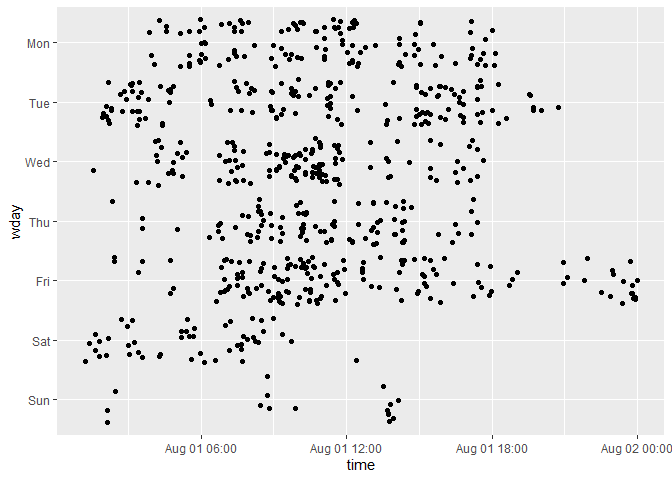
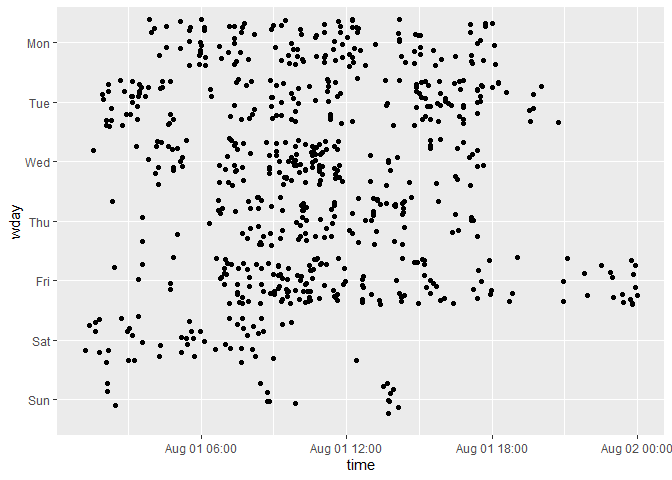
Publish html to rsconnect and md to gh.

diff --git a/README.md b/README.md
@@ -1,14 +1,21 @@
+---
+output:
+  html_document:
+    keep_md: yes
+---
 
 <!-- README.md is generated from README.Rmd. Please edit that file -->
 
+
+
 # My work on r2dii packages
 
-Adapted from <https://rpubs.com/hadley/gh>.
+Adapted from https://rpubs.com/hadley/gh.
 
-On July 1, 2019 I started working on an ecosystem of R packages named
-“r2dii”. Here I explore my work so far.
+On July 1, 2019 I started working on an ecosystem of R packages named "r2dii". Here I explore my work so far.
 
-``` r
+
+```r
 library(gh)
 library(purrr)
 library(tibble)
@@ -32,10 +39,10 @@ library(ggplot2)
 library(forcats)
 ```
 
-I start by getting a list of the 50 repos that I’ve touched most
-recently.
+I start by getting a list of the 50 repos that I’ve touched most recently.
 
-``` r
+
+```r
 my_repos <- function(type = c("all", "owner", "public", "private", "member"), 
                      limit = 50) {
   type <- match.arg(type)
@@ -53,10 +60,10 @@ length(repos)
 
 full_name <- repos %>% map_chr("full_name")
 head(full_name, 20)
-#>  [1] "maurolepore/r2dii.data"           
-#>  [2] "maurolepore/r2dii.dataprep"       
-#>  [3] "maurolepore/r2dii.dataraw"        
-#>  [4] "maurolepore/ghhrs"                
+#>  [1] "maurolepore/ghhrs"                
+#>  [2] "maurolepore/r2dii.data"           
+#>  [3] "maurolepore/r2dii.dataprep"       
+#>  [4] "maurolepore/r2dii.dataraw"        
 #>  [5] "maurolepore/junr"                 
 #>  [6] "maurolepore/DCC"                  
 #>  [7] "maurolepore/drake"                
@@ -75,15 +82,12 @@ head(full_name, 20)
 #> [20] "maurolepore/praise"
 ```
 
-(If you’re doing this yourself, you’ll need to make sure you’ve set up
-an environment variable GITHUB\_PAT with a GitHub personal access
-token.)
+(If you’re doing this yourself, you’ll need to make sure you’ve set up an environment variable GITHUB_PAT with a GitHub personal access token.)
 
-And then, for each repo, I get all the commits since 2019-07-01, around
-the time I became a full time software developer. I collaborate with
-other people, so I make sure to extract the author of the commit.
+And then, for each repo, I get all the commits since 2019-07-01, around the time I became a full time software developer. I collaborate with other people, so I make sure to extract the author of the commit.
 
-``` r
+
+```r
 repo_commits <- function(full_name, since = "2019-07-01") {
   message("Requesting commits for ", full_name)
   
@@ -105,10 +109,10 @@ repo_commits <- function(full_name, since = "2019-07-01") {
 }
 
 commits <- full_name %>% map(repo_commits) %>% compact() %>% bind_rows()
+#> Requesting commits for maurolepore/ghhrs
 #> Requesting commits for maurolepore/r2dii.data
 #> Requesting commits for maurolepore/r2dii.dataprep
 #> Requesting commits for maurolepore/r2dii.dataraw
-#> Requesting commits for maurolepore/ghhrs
 #> Requesting commits for maurolepore/junr
 #> Requesting commits for maurolepore/DCC
 #> Requesting commits for maurolepore/drake
@@ -156,27 +160,26 @@ commits <- full_name %>% map(repo_commits) %>% compact() %>% bind_rows()
 #> Requesting commits for maurolepore/dev_guide
 #> Requesting commits for maurolepore/ixplorer
 commits
-#> # A tibble: 1,225 x 3
+#> # A tibble: 1,227 x 3
 #>    full_name              author      datetime            
 #>    <chr>                  <chr>       <chr>               
-#>  1 maurolepore/r2dii.data maurolepore 2019-07-09T12:26:56Z
-#>  2 maurolepore/r2dii.data maurolepore 2019-07-09T09:43:11Z
-#>  3 maurolepore/r2dii.data maurolepore 2019-07-09T09:23:20Z
-#>  4 maurolepore/r2dii.data maurolepore 2019-07-09T09:18:51Z
-#>  5 maurolepore/r2dii.data maurolepore 2019-07-09T08:27:11Z
-#>  6 maurolepore/r2dii.data maurolepore 2019-07-09T08:27:23Z
-#>  7 maurolepore/r2dii.data maurolepore 2019-07-09T08:10:32Z
-#>  8 maurolepore/r2dii.data maurolepore 2019-07-09T08:26:37Z
-#>  9 maurolepore/r2dii.data maurolepore 2019-07-09T08:50:16Z
-#> 10 maurolepore/r2dii.data maurolepore 2019-07-09T08:23:20Z
-#> # ... with 1,215 more rows
+#>  1 maurolepore/ghhrs      maurolepore 2019-08-10T23:01:10Z
+#>  2 maurolepore/ghhrs      maurolepore 2019-08-10T21:59:43Z
+#>  3 maurolepore/ghhrs      maurolepore 2019-08-10T21:30:37Z
+#>  4 maurolepore/r2dii.data maurolepore 2019-07-09T12:26:56Z
+#>  5 maurolepore/r2dii.data maurolepore 2019-07-09T09:43:11Z
+#>  6 maurolepore/r2dii.data maurolepore 2019-07-09T09:23:20Z
+#>  7 maurolepore/r2dii.data maurolepore 2019-07-09T09:18:51Z
+#>  8 maurolepore/r2dii.data maurolepore 2019-07-09T08:27:11Z
+#>  9 maurolepore/r2dii.data maurolepore 2019-07-09T08:27:23Z
+#> 10 maurolepore/r2dii.data maurolepore 2019-07-09T08:10:32Z
+#> # ... with 1,217 more rows
 ```
 
-Next, I parse the commit date, and set my timezone. I break the datetime
-into separate date and time pieces as that will make plotting easier
-later on.
+Next, I parse the commit date, and set my timezone. I break the datetime into separate date and time pieces as that will make plotting easier later on.
 
-``` r
+
+```r
 commits <- commits %>% mutate(
   datetime = lubridate::with_tz(readr::parse_datetime(datetime), "America/Chicago"),
   date = floor_date(datetime, "day"),
@@ -185,26 +188,26 @@ commits <- commits %>% mutate(
 #> Warning in (function (object, years = integer(), months = integer(), days =
 #> integer(), : partial argument match of 'yday' to 'ydays'
 commits
-#> # A tibble: 1,225 x 5
+#> # A tibble: 1,227 x 5
 #>    full_name author datetime            date               
 #>    <chr>     <chr>  <dttm>              <dttm>             
-#>  1 maurolep~ mauro~ 2019-07-09 07:26:56 2019-07-09 00:00:00
-#>  2 maurolep~ mauro~ 2019-07-09 04:43:11 2019-07-09 00:00:00
-#>  3 maurolep~ mauro~ 2019-07-09 04:23:20 2019-07-09 00:00:00
-#>  4 maurolep~ mauro~ 2019-07-09 04:18:51 2019-07-09 00:00:00
-#>  5 maurolep~ mauro~ 2019-07-09 03:27:11 2019-07-09 00:00:00
-#>  6 maurolep~ mauro~ 2019-07-09 03:27:23 2019-07-09 00:00:00
-#>  7 maurolep~ mauro~ 2019-07-09 03:10:32 2019-07-09 00:00:00
-#>  8 maurolep~ mauro~ 2019-07-09 03:26:37 2019-07-09 00:00:00
-#>  9 maurolep~ mauro~ 2019-07-09 03:50:16 2019-07-09 00:00:00
-#> 10 maurolep~ mauro~ 2019-07-09 03:23:20 2019-07-09 00:00:00
-#> # ... with 1,215 more rows, and 1 more variable: time <dttm>
+#>  1 maurolep~ mauro~ 2019-08-10 18:01:10 2019-08-10 00:00:00
+#>  2 maurolep~ mauro~ 2019-08-10 16:59:43 2019-08-10 00:00:00
+#>  3 maurolep~ mauro~ 2019-08-10 16:30:37 2019-08-10 00:00:00
+#>  4 maurolep~ mauro~ 2019-07-09 07:26:56 2019-07-09 00:00:00
+#>  5 maurolep~ mauro~ 2019-07-09 04:43:11 2019-07-09 00:00:00
+#>  6 maurolep~ mauro~ 2019-07-09 04:23:20 2019-07-09 00:00:00
+#>  7 maurolep~ mauro~ 2019-07-09 04:18:51 2019-07-09 00:00:00
+#>  8 maurolep~ mauro~ 2019-07-09 03:27:11 2019-07-09 00:00:00
+#>  9 maurolep~ mauro~ 2019-07-09 03:27:23 2019-07-09 00:00:00
+#> 10 maurolep~ mauro~ 2019-07-09 03:10:32 2019-07-09 00:00:00
+#> # ... with 1,217 more rows, and 1 more variable: time <dttm>
 ```
 
-Next, I do a couple of quick checks to make sure the data looks
-reasonable.
+Next, I do a couple of quick checks to make sure the data looks reasonable.
 
-``` r
+
+```r
 commits %>% count(full_name, sort = TRUE) %>% print(n = 20)
 #> # A tibble: 50 x 2
 #>    full_name                             n
@@ -225,17 +228,17 @@ commits %>% count(full_name, sort = TRUE) %>% print(n = 20)
 #> 14 maurolepore/todo                      5
 #> 15 maurolepore/compareWith               4
 #> 16 maurolepore/flagr                     3
-#> 17 maurolepore/cv                        2
-#> 18 maurolepore/a-repo                    1
-#> 19 maurolepore/commit                    1
-#> 20 maurolepore/confs                     1
+#> 17 maurolepore/ghhrs                     3
+#> 18 maurolepore/cv                        2
+#> 19 maurolepore/a-repo                    1
+#> 20 maurolepore/commit                    1
 #> # ... with 30 more rows
 
 commits %>% count(author, sort = TRUE)
 #> # A tibble: 22 x 2
 #>    author            n
 #>    <chr>         <int>
-#>  1 maurolepore     767
+#>  1 maurolepore     769
 #>  2 wlandau-lilly   157
 #>  3 wlandau         130
 #>  4 maxheld83        38
@@ -248,10 +251,10 @@ commits %>% count(author, sort = TRUE)
 #> # ... with 12 more rows
 ```
 
-Now I pull out just the commits that I made, and only for repositories
-matching “r2dii”.
+Now I pull out just the commits that I made, and only for repositories matching "r2dii".
 
-``` r
+
+```r
 mauro <- commits %>% 
   filter(author == "maurolepore", grepl("r2dii", full_name))
 
@@ -272,10 +275,10 @@ mauro
 #> # ... with 675 more rows, and 1 more variable: time <dttm>
 ```
 
-To start, lets figure out what I’ve been working on. I’ll just look at
-the top 25 repos.
+To start, lets figure out what I’ve been working on. I’ll just look at the top 25 repos.
 
-``` r
+
+```r
 mauro %>% 
   mutate(repo = full_name %>% fct_reorder(date) %>% fct_rev() %>% fct_lump(25)) %>% 
   ggplot(aes(date, repo)) + 
@@ -284,26 +287,28 @@ mauro %>%
 #> 'ties' to 'ties.method'
 ```
 
-![](README_files/figure-gfm/unnamed-chunk-8-1.png)<!-- -->
+![](README_files/figure-html/unnamed-chunk-8-1.png)<!-- -->
 
 What times of day do I usually work on things?
 
-``` r
+
+```r
 mauro %>% 
   ggplot(aes(date, time)) + 
   geom_jitter()
 ```
 
-![](README_files/figure-gfm/unnamed-chunk-9-1.png)<!-- -->
+![](README_files/figure-html/unnamed-chunk-9-1.png)<!-- -->
 
-Finally, we can look at my average work week by breaking down by day of
-week.
+Finally, we can look at my average work week by breaking down by day of week.
 
-``` r
+
+```r
 mauro %>% 
   mutate(wday = wday(date, label = TRUE) %>% fct_shift(1) %>% fct_rev()) %>% 
   ggplot(aes(time, wday)) + 
   geom_jitter()
 ```
 
-![](README_files/figure-gfm/unnamed-chunk-10-1.png)<!-- -->
+![](README_files/figure-html/unnamed-chunk-10-1.png)<!-- -->
+
